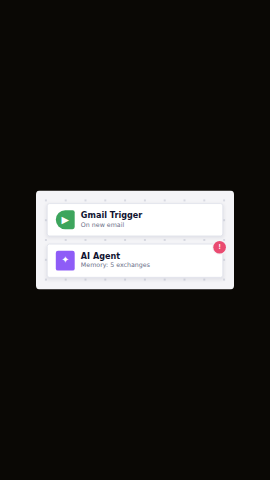
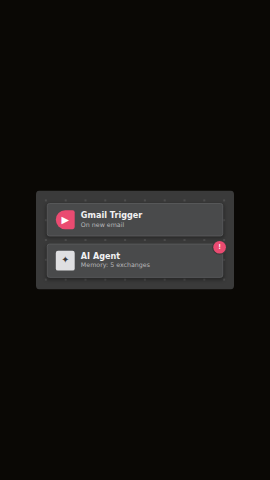
Correct the n8n and Claude UI kits against real, viewed screenshots
The first version of tool-ui-kit.css was built from brand guidelines and a docs
page, not from looking at the actual product — David flagged it as looking fake
while watching it get built, and he was right: n8n's real editor canvas is dark
(#3A3A3A, #494A4B node cards), not the light grey/white the docs page described.
Fetched and viewed two real n8n screenshots (blog.n8n.io) and one real Claude
screenshot (anthropic.com/news/projects), sampled colors from the actual PNGs with
PIL instead of eyeballing, and corrected both kits: n8n's dark canvas plus its
sticky-note annotation style and node parameter panel, Claude's serif heading font
and blue (not terracotta) interactive-element color.

ChatGPT still rests on episode 1's original verified build (unchanged, not
re-verified this round — the two sources tried both 403'd). Gemini is requested
but not built — one real screenshot was located, structure only, no color/font
detail confirmed yet.

Changed region(s): [[0.1185, 0.375, 0.8889, 0.625]]

diff --git a/export/tool-ui-kit.css b/export/tool-ui-kit.css
@@ -12,13 +12,21 @@
  */
 
 /* ───────────────────────── n8n ─────────────────────────
- * Brand: n8n.io/brandguidelines — Mandy pink/red #EA4B71, Brand Black #101330,
- * near-white grey #FCFCFD. Editor canvas: light grey dotted grid (n8n Docs, "Navigating
- * the editor UI") — white rounded node cards on it, not a dark canvas; a red circular
- * badge marks a node with a problem. */
+ * CORRECTED 14.9.2026 — the previous version below was built from n8n's brand
+ * guidelines + a docs page describing a light canvas. Pulled two real, current
+ * screenshots instead (n8n's own blog, blog.n8n.io/how-to-build-ai-agent/, fetched and
+ * viewed directly, colors sampled with PIL from the actual PNGs) and the real editor
+ * is DARK, not light: canvas #3A3A3A with a lighter dot grid, node cards #494A4B with
+ * white/light-grey text, sticky-note annotations in an olive-brown (#5A4F25 body /
+ * #746855 banner) with white heading text and orange-red links, node parameter panels
+ * on the same #3A3A3A with lighter #5B5C5F input/dropdown fields. Brand pink #EA4B71
+ * (n8n.io/brandguidelines) still shows up as the accent — active tabs, links, the
+ * trigger bolt — just not as the canvas or card color the old version assumed.
+ * See channel/tool-ui-kit.md for the exact source images. */
 .tuk-n8n{
-  --n8n-pink:#EA4B71; --n8n-ink:#101330; --n8n-canvas:#F4F4F7; --n8n-dot:#D7D9E2;
-  --n8n-card:#FFFFFF; --n8n-card-line:#E2E4EC; --n8n-wire:#C6C9D6;
+  --n8n-pink:#EA4B71; --n8n-canvas:#3A3A3A; --n8n-dot:#4E4E4E;
+  --n8n-card:#494A4B; --n8n-card-line:#5A5B5C; --n8n-ink:#F2F2F3; --n8n-sub:#B8B8BA;
+  --n8n-note:#5A4F25; --n8n-note-ink:#F5EFDD; --n8n-field:#5B5C5F; --n8n-wire:#7A7B7D;
   background:
     radial-gradient(var(--n8n-dot) 1.4px, transparent 1.4px) 0 0/22px 22px,
     var(--n8n-canvas);
@@ -28,7 +36,7 @@
 .tuk-n8n .n8n-node{
   background:var(--n8n-card); border:1px solid var(--n8n-card-line); border-radius:1.1cqw;
   padding:2.6cqw 3.2cqw; display:flex; align-items:center; gap:2.4cqw;
-  box-shadow:0 .6cqw 1.6cqw rgba(16,19,48,.08); position:relative;
+  box-shadow:0 .6cqw 1.6cqw rgba(0,0,0,.35); position:relative;
 }
 .tuk-n8n .n8n-node + .n8n-node{ margin-top:3.2cqw }
 .tuk-n8n .n8n-icon{
@@ -36,11 +44,11 @@
   display:grid; place-items:center; font-size:4cqw; color:#fff;
   background:var(--n8n-icon,#6B7280);
 }
-.tuk-n8n .n8n-icon.trigger{ background:#3DA55D; border-radius:50% .9cqw .9cqw 50% }
-.tuk-n8n .n8n-icon.ai{ background:#8E5CF7 }
+.tuk-n8n .n8n-icon.trigger{ background:var(--n8n-pink); border-radius:50% .9cqw .9cqw 50% }
+.tuk-n8n .n8n-icon.ai{ background:#DFDFE1; color:#3A3A3A }
 .tuk-n8n .n8n-icon.http{ background:#2E7CF6 }
 .tuk-n8n .n8n-label{ font-weight:700; font-size:4.2cqw; color:var(--n8n-ink) }
-.tuk-n8n .n8n-sub{ font-size:3cqw; color:#6B7089; margin-top:.4cqw }
+.tuk-n8n .n8n-sub{ font-size:3cqw; color:var(--n8n-sub); margin-top:.4cqw }
 .tuk-n8n .n8n-badge{
   position:absolute; top:-1.6cqw; right:-1.6cqw; width:5.2cqw; height:5.2cqw; border-radius:50%;
   background:var(--n8n-pink); color:#fff; display:grid; place-items:center;
@@ -49,6 +57,25 @@
 }
 .tuk-n8n .n8n-wire{ stroke:var(--n8n-wire); stroke-width:2.5; fill:none }
 .tuk-n8n .n8n-wire.active{ stroke:var(--n8n-pink) }
+/* the sticky-note annotation boxes real n8n workflows are covered in — an olive card
+ * with a bold white heading and orange-red inline links, not a node itself */
+.tuk-n8n .n8n-note{
+  background:var(--n8n-note); color:var(--n8n-note-ink); border-radius:.8cqw;
+  padding:3cqw 3.4cqw; font-size:3.4cqw; line-height:1.5;
+}
+.tuk-n8n .n8n-note b{ display:block; font-size:4.4cqw; margin-bottom:1.2cqw }
+.tuk-n8n .n8n-note a, .tuk-n8n .n8n-note .link{ color:#FF8A65 }
+/* the node parameter panel (double-click a node) — same dark canvas bg, lighter field wells */
+.tuk-n8n .n8n-panel{
+  background:var(--n8n-canvas); border-radius:1cqw; padding:3.4cqw;
+  color:var(--n8n-ink); font-size:3.2cqw;
+}
+.tuk-n8n .n8n-panel .n8n-field{
+  background:var(--n8n-field); border-radius:.7cqw; padding:2cqw 2.4cqw;
+  margin-top:1cqw; color:var(--n8n-ink); font-family:'IBM Plex Mono',monospace; font-size:3cqw;
+}
+.tuk-n8n .n8n-panel .n8n-tab{ color:var(--n8n-sub); font-weight:700; margin-inline-end:3cqw }
+.tuk-n8n .n8n-panel .n8n-tab.active{ color:var(--n8n-pink); border-bottom:2px solid var(--n8n-pink) }
 
 /* ───────────────────────── ChatGPT ─────────────────────────
  * Light UI, real menu chrome. Verified against episode 1's own build (video/reel-01-v25.html),
@@ -76,10 +103,18 @@
  * Warm cream/terracotta, sourced from Anthropic's shipped design tokens: cream #F0ECE0,
  * terracotta accent #C96442, coral #D97757, near-black ink #141413 — every gray here
  * carries the same warm undertone rather than a neutral gray, which is the whole
- * visual signature; a cool gray reads as wrong immediately. */
+ * visual signature; a cool gray reads as wrong immediately.
+ * CORRECTED 14.9.2026 — viewed a real, current Anthropic marketing screenshot
+ * (anthropic.com/news/projects, the "Project knowledge" panel) directly. Two facts
+ * the color tokens alone missed: chat prompts/headings render in a SERIF face (a
+ * Copernicus-style serif, not Inter) — this is a real, distinctive part of Claude's
+ * look, not a generic sans UI like the other three kits; and the real accent color
+ * doing the work in the UI (link text, the "+" on an action row, file-type chips) is
+ * a plain blue, not the terracotta — terracotta/coral show up as brand color, not as
+ * the interactive-element color. Both used below. */
 .tuk-claude{
   --claude-bg:#F0ECE0; --claude-ink:#141413; --claude-sub:#8A8478; --claude-accent:#C96442; --claude-coral:#D97757;
-  --claude-card:#FAF8F2; --claude-line:#E3DDCB;
+  --claude-card:#FAF8F2; --claude-line:#E3DDCB; --claude-link:#2C84DB;
   background:var(--claude-bg); border-radius:1.6cqw; padding:4.6cqw; position:relative;
   font-family:'Inter','Segoe UI',system-ui,sans-serif;
 }
@@ -92,4 +127,20 @@
   display:inline-block; background:var(--claude-accent); color:#FFF6EE;
   border-radius:99cqw; padding:.8cqw 2.6cqw; font-size:2.8cqw; font-weight:700;
   letter-spacing:.04em; margin-bottom:2cqw;
+}
+/* the serif prompt/heading line — what a real chat title or project name looks like */
+.tuk-claude .claude-serif{
+  font-family:Georgia,'Iowan Old Style','Palatino Linotype',serif;
+  color:var(--claude-ink); font-size:5.6cqw; line-height:1.3;
+}
+/* a dashed-border action row, e.g. "+ Set custom instructions" */
+.tuk-claude .claude-action{
+  display:flex; align-items:center; gap:1.6cqw; border:1.5px dashed var(--claude-line);
+  border-radius:1cqw; padding:2.6cqw 3cqw; color:var(--claude-link); font-weight:700; font-size:3.6cqw;
+}
+/* a DOCX/PDF file chip in a knowledge/attachment list */
+.tuk-claude .claude-file{ display:flex; align-items:center; gap:2.2cqw; font-size:3.4cqw; color:var(--claude-ink) }
+.tuk-claude .claude-file .ext{
+  width:7cqw; height:7cqw; border-radius:.6cqw; background:#fff; border:1.5px solid var(--claude-link);
+  color:var(--claude-link); display:grid; place-items:center; font-size:2.2cqw; font-weight:800;
 }

diff --git a/video/demo-tool-ui-kit.html b/video/demo-tool-ui-kit.html
@@ -28,7 +28,20 @@ h2{font-size:14px;color:#999;text-transform:uppercase;letter-spacing:.08em}
     <div class="n8n-icon http">→</div>
     <div><div class="n8n-label">Gmail Reply</div><div class="n8n-sub">Draft</div></div>
   </div>
+  <div class="n8n-note" style="margin-top:3.2cqw">
+    <b>Google Gemini AI model</b>
+    Picked for the context window and speed. <span class="link">See the docs</span>
+  </div>
 </div></div>
+</div>
+
+<div>
+<h2>n8n — node panel</h2>
+<div class="frame"><div class="tuk-n8n" style="width:100%"><div class="n8n-panel">
+  <span class="n8n-tab active">Parameters</span><span class="n8n-tab">Settings</span>
+  <div style="margin-top:2.6cqw">Prompt (User Message)</div>
+  <div class="n8n-field">{{ $json.chatInput }}</div>
+</div></div></div>
 </div>
 
 <div>
@@ -44,6 +57,9 @@ h2{font-size:14px;color:#999;text-transform:uppercase;letter-spacing:.08em}
 <div>
 <h2>Claude</h2>
 <div class="frame"><div class="tuk-claude" style="width:100%">
+  <div class="claude-serif" style="margin-bottom:3cqw">New hire onboarding</div>
+  <div class="claude-action" style="margin-bottom:3cqw">+ Set custom instructions</div>
+  <div class="claude-file" style="margin-bottom:1.6cqw"><span class="ext">PDF</span>A guide to performance cycles</div>
   <div class="claude-tag">memory window</div>
   <div class="claude-bubble">contextWindowLength: <b>5</b><br>the default nobody changes</div>
 </div></div>

diff --git a/studio/lib/templates.ts b/studio/lib/templates.ts
@@ -131,7 +131,7 @@ export const TOOL_UI_KITS: ToolUiKit[] = [
     name: "n8n",
     thumb: "/templates/k-tool-n8n.png",
     when: "Any n8n episode — this channel's most-covered tool (episodes 2, 7, 25, 29, 32, 33). A node card, not a claim about one.",
-    sourced: "n8n.io/brandguidelines (Mandy pink/red #EA4B71, Brand Black #101330) + n8n's own docs (light dotted-grid canvas, white node cards).",
+    sourced: "n8n.io/brandguidelines (pink #EA4B71) + real screenshots from blog.n8n.io/how-to-build-ai-agent/, colors sampled from the actual PNGs — the dark canvas/dark node cards are what the real editor looks like; an earlier version of this kit assumed a light canvas from a docs page and was wrong.",
   },
   {
     n: 2,
@@ -147,7 +147,7 @@ export const TOOL_UI_KITS: ToolUiKit[] = [
     name: "Claude",
     thumb: "/templates/m-tool-claude.png",
     when: "Any Claude / Claude Code episode. Built ahead of need, so the next Claude episode doesn't start from scratch.",
-    sourced: "Anthropic's own shipped design tokens: cream #F0ECE0, terracotta #C96442, coral #D97757, ink #141413.",
+    sourced: "Anthropic's shipped design tokens (cream #F0ECE0, terracotta #C96442, ink #141413) + a real screenshot at anthropic.com/news/projects — confirmed the serif heading font and the blue (not terracotta) link/action color, which the tokens alone didn't cover.",
   },
 ];
 

diff --git a/channel/tool-ui-kit.md b/channel/tool-ui-kit.md
@@ -14,32 +14,55 @@ screen looks like the real product.
 
 ## Sourcing — every color below is cited, none guessed
 
-**n8n** (`.tuk-n8n`) — brand colors from n8n's own brand guidelines
-(n8n.io/brandguidelines): Mandy pink/red `#EA4B71`, Brand Black `#101330`, near-white
-grey `#FCFCFD`. Canvas: n8n's own docs ("Navigating the editor UI") describe a grey
-dotted-grid canvas with white node cards on it — not a dark canvas. A node with a
-problem gets a small circular badge, which is what `.n8n-badge` recreates.
+**n8n** (`.tuk-n8n`) — **corrected 14.9.2026.** The first version used n8n's brand
+guidelines (n8n.io/brandguidelines: Mandy pink/red `#EA4B71`) plus a docs page
+describing a light grey dotted-grid canvas with white node cards. David flagged the
+whole kit as looking fake while watching it get built, so this time two real, current
+screenshots were fetched and actually viewed (`blog.n8n.io/how-to-build-ai-agent/`,
+image URLs under `storage.ghost.io/.../content/images/2025/04/`), and the colors below
+sampled directly from those PNGs with PIL — not read off a docs illustration. The real
+editor is **dark**: canvas `#3A3A3A` with a lighter dot grid, node cards `#494A4B`
+with light text, sticky-note annotations in an olive-brown (`#5A4F25` body,
+`#746855` banner) with a bold white heading and orange-red links, node parameter
+panels on the same dark canvas with lighter `#5B5C5F` input/dropdown fields. The brand
+pink still shows up — active tabs, links, the trigger icon — just not as the canvas
+or card color the first version assumed.
 
-**ChatGPT** (`.tuk-chatgpt`) — reused from episode 1's own build
+**ChatGPT** (`.tuk-chatgpt`) — still reused from episode 1's own build
 (`video/reel-01-v25.html`), which recreated the real Settings menu and Custom
-Instructions panel before this kit existed; that build was itself checked against the
-live app before shipping. Light UI, real menu row labels and chevrons, `#10A37F`
-accent.
+Instructions panel before this kit existed and was itself checked against the live
+app before shipping. **Not re-verified this round** — WebFetch on
+`help.openai.com/en/articles/8096356` and `openai.com/academy/personalization/` both
+403'd; no new screenshot was actually viewed, so this entry still rests on episode 1's
+original check, not a fresh one.
 
-**Claude** (`.tuk-claude`) — Anthropic's own shipped design tokens: cream background
-`#F0ECE0`, terracotta accent `#C96442`, coral `#D97757`, near-black ink `#141413`. The
-signature detail worth keeping if this kit is ever extended: every gray in Claude's
-real UI carries a warm/olive undertone, never a neutral cool gray.
+**Claude** (`.tuk-claude`) — Anthropic's own shipped design tokens (cream `#F0ECE0`,
+terracotta `#C96442`, coral `#D97757`, ink `#141413`), **plus a real screenshot viewed
+14.9.2026** (`anthropic.com/news/projects`, the "Project knowledge" panel). That
+screenshot added two facts the tokens alone missed: chat prompts/headings render in a
+serif face (Georgia/Iowan-Old-Style stack here, real Claude uses a Copernicus-style
+serif) — a distinctive part of the look the sans-only version was missing entirely —
+and the actual interactive-element color (links, the "+" on an action row, file-type
+chips) is a plain blue `#2C84DB`, not the terracotta; terracotta/coral are brand color,
+not the color doing UI work. Every gray still carries the same warm/olive undertone,
+never a neutral cool gray.
+
+**Gemini** — requested 14.9.2026, not yet built. One real screenshot was located
+(`commons.wikimedia.org/wiki/File:Google_Gemini_Screenshot_(2026).png`, third-party but
+dated) confirming sidebar structure ("My Stuff," "Temporary Chats") and bottom input
+placement, but no color/font/corner-radius detail was verified from it yet — next
+session's work, not started.
 
 ## Status
 
-Not yet wired into `channel/motion-recipes.md` or `studio/lib/templates.ts` — that's
-next, once David has looked at a real render using this kit and signed off on it.
-n8n is first because it's this channel's most-covered tool (episodes 2, 7, 25, 29, 32,
-33). ChatGPT and Claude are built ahead of when we'll need them next, per his request,
-so the next episode on either doesn't wait on this being built from scratch again.
+Wired into `studio/lib/templates.ts` / the studio's `/templates` page. n8n and Claude
+were corrected against real, viewed screenshots this round (sourced above); ChatGPT
+still rests on episode 1's original build, unverified again this session; Gemini is
+requested but not built. `video/reel-34.html` uses `.tuk-n8n` and inherits today's
+corrected (dark) version automatically since it targets the class, not a hardcoded
+color.
 
-Sources: n8n.io/brandguidelines; docs.n8n.io ("Navigating the editor UI"); this
-session's own review of `video/reel-01-v25.html`; Anthropic's shipped Claude.ai design
-tokens (cream/terracotta/coral/ink hex values), cross-checked across multiple
-independent design-reference sites in the same session.
+Sources: n8n.io/brandguidelines; `blog.n8n.io/how-to-build-ai-agent/` (2 real
+screenshots fetched and viewed, colors sampled with PIL); this session's own review of
+`video/reel-01-v25.html`; `anthropic.com/news/projects` (1 real screenshot fetched and
+viewed); `commons.wikimedia.org` (1 third-party Gemini screenshot, structure only).
